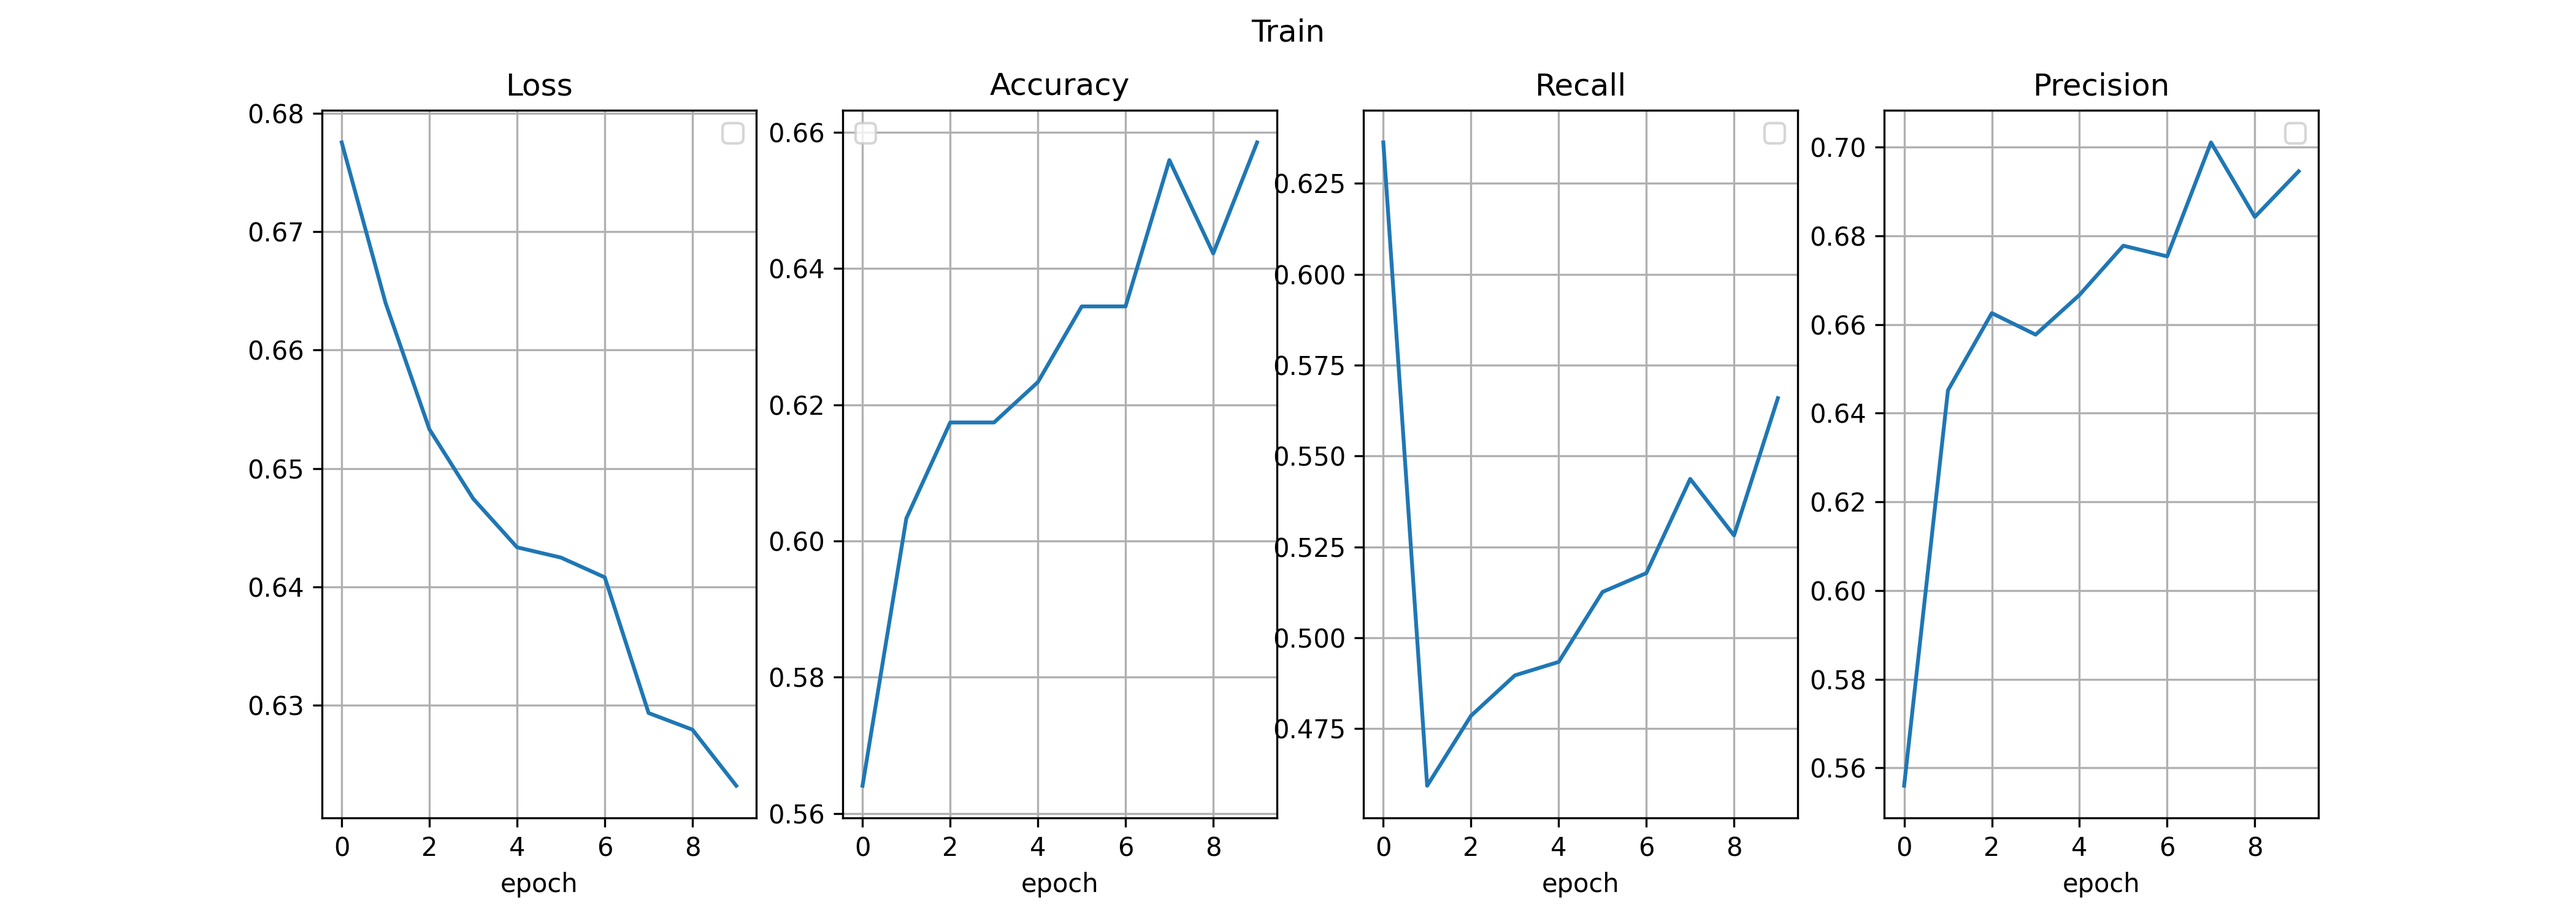
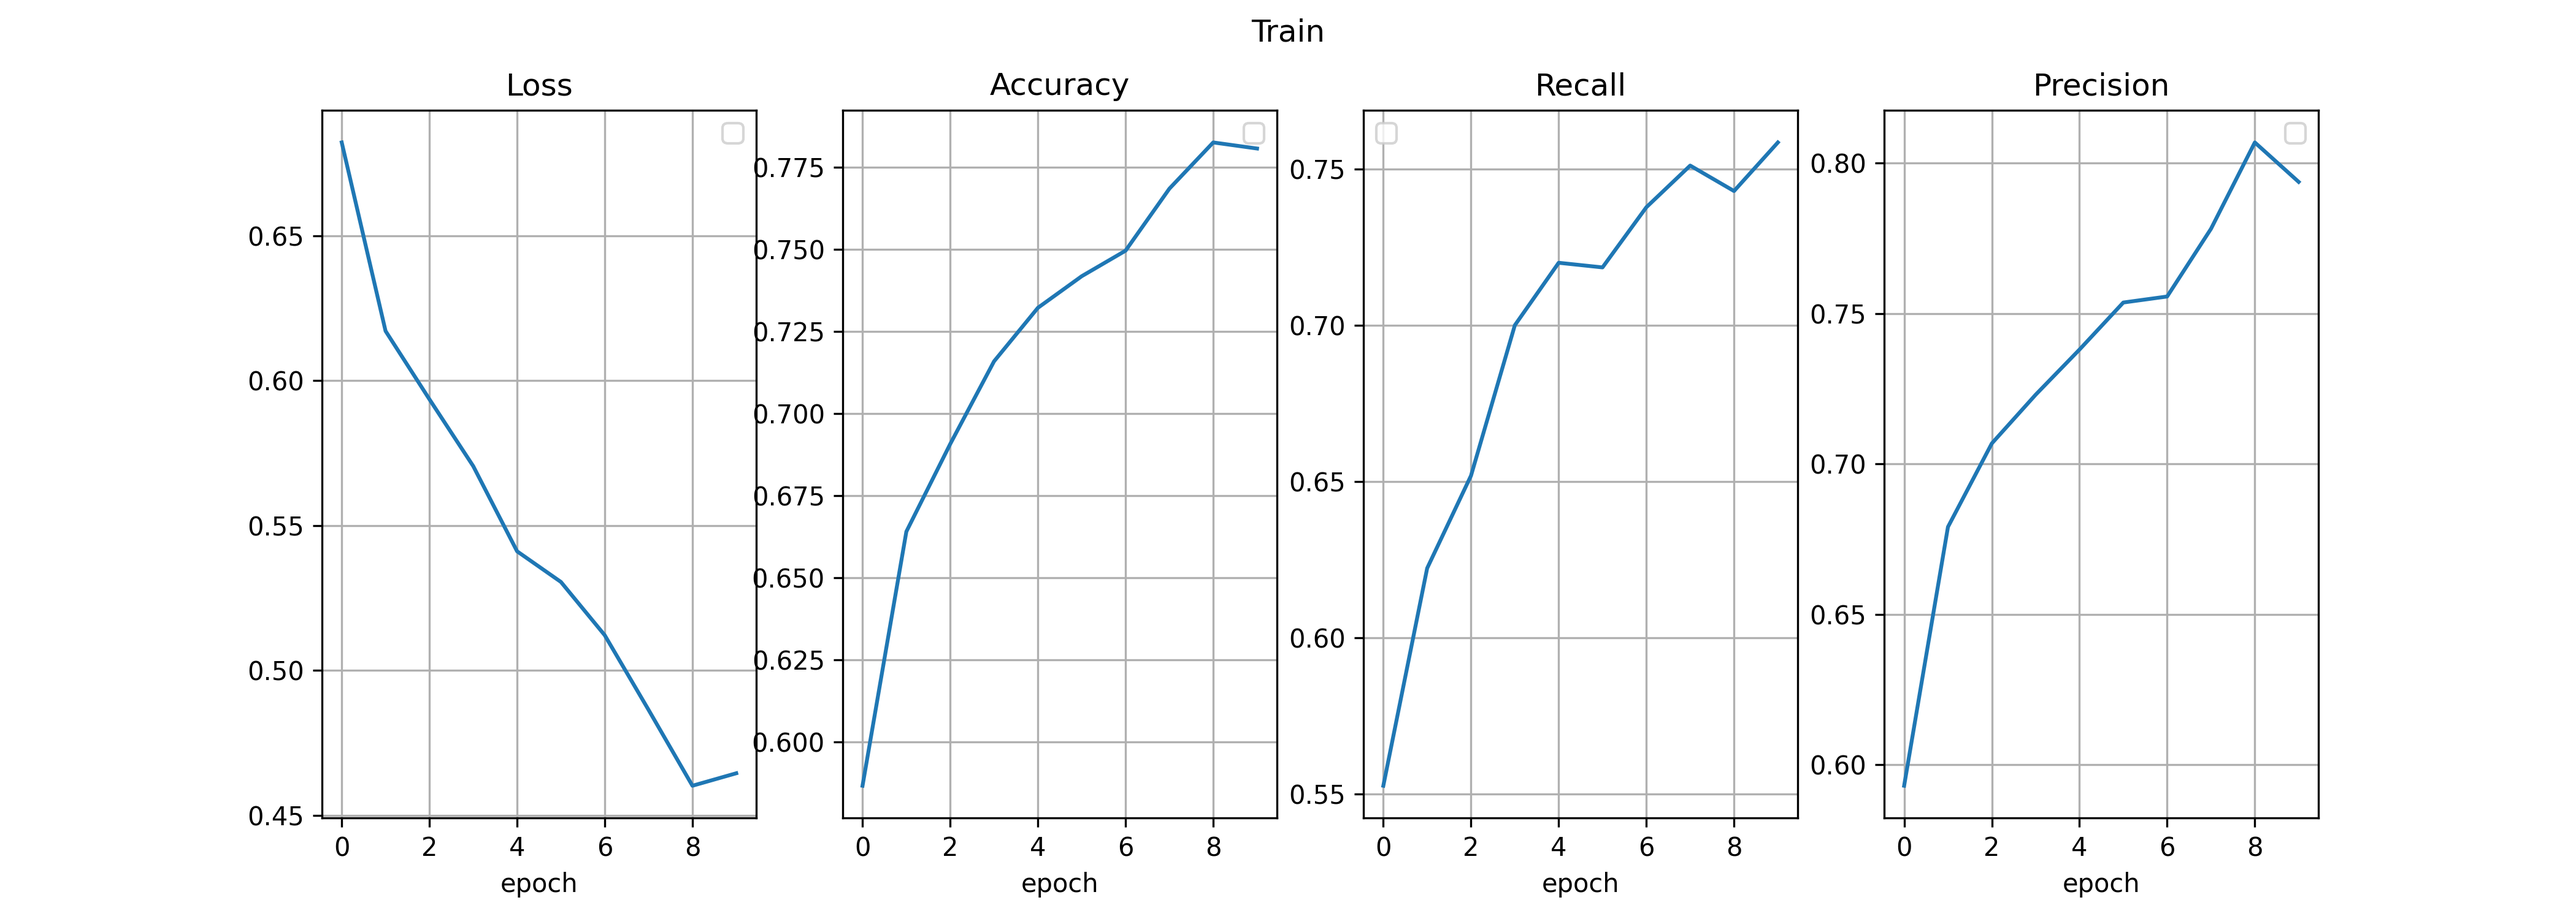
Change style of network

diff --git a/lab1/model.py b/lab1/model.py
@@ -2,82 +2,72 @@ import torch
 import torch.nn as nn
 import torch.nn.init as init
 
+class Depthwise(nn.Module):
+	def __init__(self, in_channels, out_channels, kernel_size, stride):
+		super(Depthwise, self).__init__()
 
-class MobNet(nn.Module):
-	def __init__(self, num_classes=1):
-		super(MobNet, self).__init__()
-		self.conv_3x3x3x32_s2 = nn.Conv2d(in_channels=3, out_channels=32, kernel_size=3, stride=2, padding=1)
-
-		self.conv_1x1x64x128 = nn.Conv2d(in_channels=64, out_channels=128, kernel_size=1, stride=1)
-		self.conv_1x1x32x64 = nn.Conv2d(in_channels=32, out_channels=64, kernel_size=1, stride=1)
-		self.conv_1x1x128x128 = nn.Conv2d(in_channels=128, out_channels=128, kernel_size=1,stride=1)
-		self.conv_1x1x128x256 = nn.Conv2d(in_channels=128, out_channels=256, kernel_size=1, stride=1)
-		self.conv_1x1x256x256 = nn.Conv2d(in_channels=256, out_channels=256, kernel_size=1, stride=1)
-		self.conv_1x1x256x512 = nn.Conv2d(in_channels=256, out_channels=512, kernel_size=1, stride=1)
-		self.conv_1x1x512x512 = nn.Conv2d(in_channels=512, out_channels=512, kernel_size=1, stride=1)
-		self.conv_1x1x512x1024 = nn.Conv2d(in_channels=512, out_channels=1024, kernel_size=1, stride=1)
-		self.conv_1x1x1024x1024 = nn.Conv2d(in_channels=1024, out_channels=1024, kernel_size=1, stride=1)
-
-		self.conv_d3x3x32 = nn.Conv2d(in_channels=32, out_channels=32, kernel_size=3, stride=1, groups=32, padding=1)
-		self.conv_d3x3x64_s2 = nn.Conv2d(in_channels=64, out_channels=64, kernel_size=3, stride=2, groups=64, padding=1)
-		self.conv_d3x3x128 = nn.Conv2d(in_channels=128, out_channels=128, kernel_size=3, stride=1, groups=128, padding=1)
-		self.conv_d3x3x128_s2 = nn.Conv2d(in_channels=128, out_channels=128, kernel_size=3, stride=2, groups=128, padding=1)
-		self.conv_d3x3x256 = nn.Conv2d(in_channels=256, out_channels=256, kernel_size=3, stride=1, groups=256,padding=1)
-		self.conv_d3x3x256_s2 = nn.Conv2d(in_channels=256, out_channels=256, kernel_size=3, stride=2, groups=256, padding=1)
-		self.conv_d3x3x512 = nn.Conv2d(in_channels=512, out_channels=512, kernel_size=3, stride=1, groups=512, padding=1)
-		self.conv_d3x3x512_s2 = nn.Conv2d(in_channels=512, out_channels=512, kernel_size=3, stride=2, groups=512, padding=1)
-		self.conv_d3x3x1024 = nn.Conv2d(in_channels=1024, out_channels=1024, kernel_size=3, stride=1, groups=1024,padding=1)
-
-		self.avg_pool = nn.AvgPool2d(kernel_size=7)		
-		self.fc = nn.Linear(in_features=1024, out_features=1000)
-		self.final_fc = nn.Linear(in_features=1000, out_features=num_classes)
-		# functions
-		self.relu = nn.ReLU()
-		self.sigm = nn.Sigmoid()
-		self.bn_32 = nn.BatchNorm2d(num_features=32)
-		self.bn_64 = nn.BatchNorm2d(num_features=64)
-		self.bn_128 = nn.BatchNorm2d(num_features=128)
-		self.bn_256 = nn.BatchNorm2d(num_features=256)
-		self.bn_512 = nn.BatchNorm2d(num_features=512)
-		self.bn_1024 = nn.BatchNorm2d(num_features=1024)
-
-	def conv(self, x, conv, bn):
-		x = conv(x)
-		x = bn(x)
-		x = self.relu(x)
-		return x
-	
-	def depthwise(self, x, conv_d, conv_1x1, bn_d, bn_1x1):
-		x = conv_d(x)
-		x = bn_d(x)
-		x = self.relu(x)
-		x = conv_1x1(x)
-		x = bn_1x1(x)
-		x = self.relu(x)
-		return x 
+		self.conv = nn.Sequential(
+			nn.Conv2d(in_channels=in_channels, out_channels=in_channels, kernel_size=kernel_size, stride=stride, bias=False, groups=in_channels, padding=1),
+			nn.BatchNorm2d(in_channels),
+			nn.ReLU(),
+			nn.Conv2d(in_channels=in_channels, out_channels=out_channels, kernel_size=1, stride=1, bias=False),
+			nn.BatchNorm2d(out_channels),
+			nn.ReLU()
+		)
 
 	def forward(self, x):
-		x = self.conv(x, self.conv_3x3x3x32_s2, self.bn_32) #1
-		x = self.depthwise(x, self.conv_d3x3x32, self.conv_1x1x32x64, self.bn_32, self.bn_64)  #2
-		x = self.depthwise(x, self.conv_d3x3x64_s2, self.conv_1x1x64x128, self.bn_64, self.bn_128) #3
-		x = self.depthwise(x, self.conv_d3x3x128, self.conv_1x1x128x128, self.bn_128, self.bn_128) #4
-		x = self.depthwise(x, self.conv_d3x3x128_s2, self.conv_1x1x128x256, self.bn_128, self.bn_256) #5
-		x = self.depthwise(x, self.conv_d3x3x256, self.conv_1x1x256x256, self.bn_256, self.bn_256) #6 
-		x = self.depthwise(x, self.conv_d3x3x256_s2, self.conv_1x1x256x512, self.bn_256, self.bn_512) #7 
+		return self.conv(x)
 
-		x = self.depthwise(x, self.conv_d3x3x512, self.conv_1x1x512x512, self.bn_512, self.bn_512) #8 
-		x = self.depthwise(x, self.conv_d3x3x512, self.conv_1x1x512x512, self.bn_512, self.bn_512) #9 
-		x = self.depthwise(x, self.conv_d3x3x512, self.conv_1x1x512x512, self.bn_512, self.bn_512) #10 
-		x = self.depthwise(x, self.conv_d3x3x512, self.conv_1x1x512x512, self.bn_512, self.bn_512) #11 
-		x = self.depthwise(x, self.conv_d3x3x512, self.conv_1x1x512x512, self.bn_512, self.bn_512) #12 
 
-		x = self.depthwise(x, self.conv_d3x3x512_s2, self.conv_1x1x512x1024, self.bn_512, self.bn_1024) #13 
-		x = self.depthwise(x, self.conv_d3x3x1024, self.conv_1x1x1024x1024, self.bn_1024, self.bn_1024) #14 
+class MobNetNew(nn.Module):
+	def __init__(self, num_classes):
+		super(MobNetNew, self).__init__()
 
-		x = self.avg_pool(x) #15
-		x = torch.flatten(x,1)
-		x = self.fc(x) 
+		self.conv1 = nn.Conv2d(in_channels=3, out_channels=32, kernel_size=3, stride=2, bias=False)
+		self.bn = nn.BatchNorm2d(32)
+		self.relu = nn.ReLU()
+		# in_channels, out_channels, kernel_size, stride
+		# confif for depthwise block
+		config = [
+			(32, 64, 3, 1),
+			(64, 128, 3, 2),
+			(128, 128, 3, 1),
+			(128, 256, 3, 2),
+			(256, 256, 3, 1),
+			(256, 512, 3, 2),
+
+			(512, 512, 3, 1),
+			(512, 512, 3, 1),
+			(512, 512, 3, 1),
+			(512, 512, 3, 1),
+			(512, 512, 3, 1),
+			(512 ,1024, 3, 2),
+			(1024, 1024, 3, 1)
+		]
+
+		self.depthwise_block = self._make_layer(config)
+		self.avg_pool = nn.AvgPool2d(kernel_size=7)
+		self.fc = nn.Linear(in_features=1024, out_features=num_classes)
+
+	def _make_layer(self, config):
+		layers = []
+
+		for in_ch, out_ch, k_s, s in config:
+			layers.append(
+				Depthwise(in_channels=in_ch, out_channels=out_ch, kernel_size=k_s, stride=s)
+			)
+
+		return nn.Sequential(*layers)
+
+	def forward(self, x):
+		x = self.conv1(x)
+		x = self.bn(x)
 		x = self.relu(x)
-		x = self.final_fc(x)
-		x = self.sigm(x)
+
+		x = self.depthwise_block(x)
+
+		x = self.avg_pool(x)
+		x = torch.flatten(x, 1)
+		x = self.fc(x)
+
 		return x

diff --git a/lab1/train.py b/lab1/train.py
@@ -3,7 +3,7 @@ import torch.nn as nn
 from tqdm import tqdm
 import torch
 import torchmetrics.classification
-from model import MobNet
+from model import MobNetNew
 import matplotlib.pyplot as plt
 
 def set_in_plot(ax, x, y, title):
@@ -41,9 +41,8 @@ def train(model, device, tloader, vloader, epoch=10, validation=1):
  					  'precision':  torchmetrics.classification.BinaryPrecision(threshold=0.5).to(device=device),
 					  'recall': torchmetrics.classification.BinaryRecall(threshold=0.5).to(device=device)}
 	
-	loss_func = nn.BCELoss()
-#	opt = torch.optim.Adam(model.parameters(), lr=0.001, betas=(0.9, 0.999), eps=1e-8) 
-	opt = torch.optim.SGD(params=model.parameters(), lr=0.01)
+	loss_func = nn.BCEWithLogitsLoss()
+	opt = torch.optim.Adam(model.parameters(), lr=0.0001, betas=(0.9, 0.999), eps=1e-8) 
 
 	current_epoch = 0
 	min_loss = 1e+6
@@ -63,9 +62,10 @@ def train(model, device, tloader, vloader, epoch=10, validation=1):
 				loss.backward()
 				opt.step()
 
-				train_metrics['accuracy'].update(output, label[:,None])
-				train_metrics['recall'].update(output, label[:,None])
-				train_metrics['precision'].update(output, label[:,None])
+				pred = torch.sigmoid(output)
+				train_metrics['accuracy'].update(pred, label[:,None])
+				train_metrics['recall'].update(pred, label[:,None])
+				train_metrics['precision'].update(pred, label[:,None])
 				running_loss += loss.item()
 
 			train_results['loss'].append(running_loss / len(tloader))
@@ -91,10 +91,11 @@ def train(model, device, tloader, vloader, epoch=10, validation=1):
 
 				output = model(data)
 				loss = loss_func(output, label[:,None])
-
-				valid_metrics['accuracy'].update(output, label[:,None])
-				valid_metrics['recall'].update(output, label[:,None])
-				valid_metrics['precision'].update(output, label[:,None])
+				
+				pred = torch.sigmoid(output)
+				valid_metrics['accuracy'].update(pred, label[:,None])
+				valid_metrics['recall'].update(pred, label[:,None])
+				valid_metrics['precision'].update(pred, label[:,None])
 				
 				running_loss += loss.item()
 

diff --git a/lab1/main.py b/lab1/main.py
@@ -5,18 +5,14 @@ from torch.utils.data import Dataset, DataLoader
 
 from mydataloader import HotDogDataset, transform
 from train import train, test
-from model import MobNet
+from model import MobNetNew
 
 def main():
 	device = torch.device("cuda" if torch.cuda.is_available() else "cpu")
 	num_classes = 1
 
-	model = MobNet(num_classes=1)
+	model = MobNetNew(num_classes=1)
 	model = model.to(device=device)
-
-	model2 = timm.create_model("mobilenetv2_100", pretrained=False)
-	model2.classifier = nn.Linear(model2.classifier.in_features, num_classes)
-	model2.to(device=device)
 
 	train_dataset = HotDogDataset("../dataset/train", transform=transform)
 	valid_dataset = HotDogDataset("../dataset/valid", transform=transform)	
@@ -26,7 +22,7 @@ def main():
 	valid_loader = DataLoader(valid_dataset, batch_size=1, shuffle=False)
 	test_loader = DataLoader(test_dataset, batch_size=1, shuffle=False)
 
-	train(model=model, device=device, tloader=train_loader, vloader=valid_loader, epoch=10, validation=5)
+	train(model=model, device=device, tloader=train_loader, vloader=valid_loader, epoch=10, validation=1)
 	#test(model=model, path=".\\weights\\_100.pth", device=device, tloader=test_loader)
 
 if __name__ == "__main__":

diff --git a/lab1/tempqilgyrj.py b/lab1/tempqilgyrj.py
@@ -1,0 +1,2 @@
+
+	model2.to(device=device)
